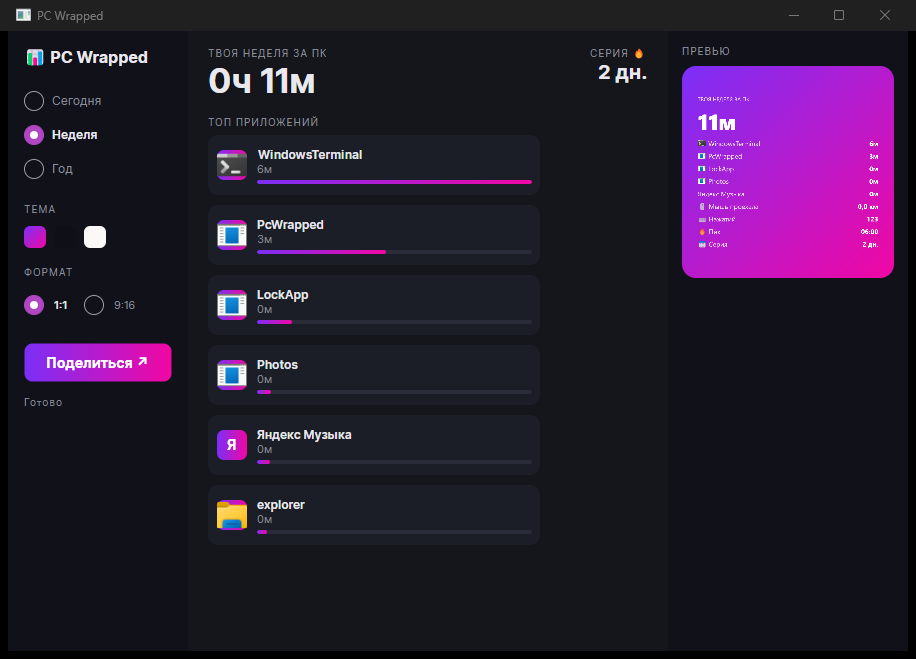
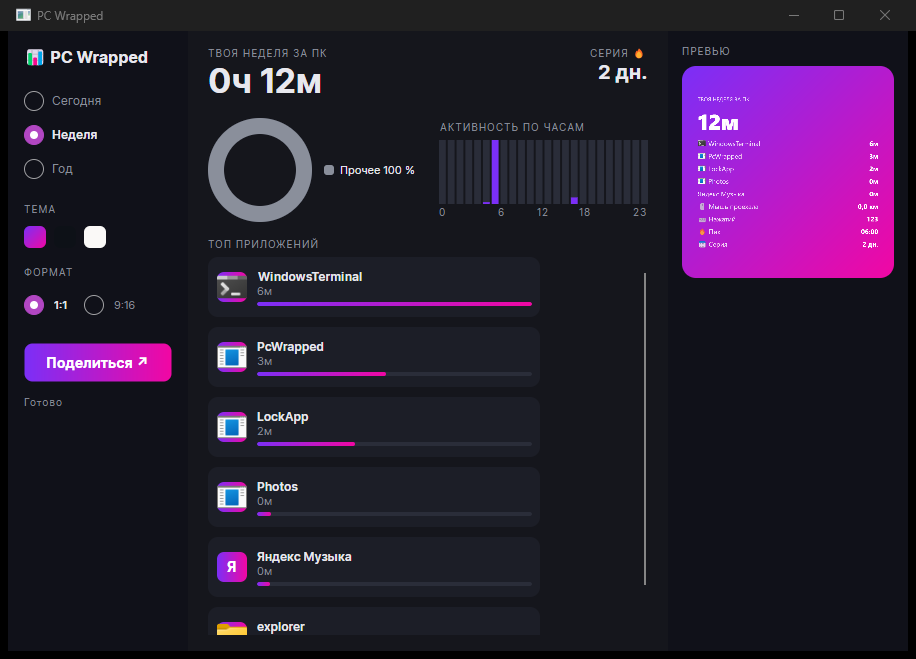
feat: add category donut and hourly bars to the shareable card

diff --git a/src/PcWrapped/Rendering/CardRenderer.cs b/src/PcWrapped/Rendering/CardRenderer.cs
@@ -1,10 +1,13 @@
 using System;
 using System.Collections.Generic;
+using System.Linq;
 using Avalonia;
 using Avalonia.Controls;
 using Avalonia.Layout;
 using Avalonia.Media;
 using Avalonia.Media.Imaging;
+using PcWrapped.Controls;
+using PcWrapped.Core.Aggregation;
 using PcWrapped.Core.Models;
 
 namespace PcWrapped.Rendering;
@@ -69,12 +72,59 @@ public static class CardRenderer
         int shown = 0;
         foreach (var app in stats.TopApps)
         {
-            if (shown >= 5) break;
+            if (shown >= 3) break;
             IImage? appIcon = null;
             appIcons?.TryGetValue(app.ProcessName, out appIcon);
             Row(app.ProcessName, FormatHours(app.Duration), appIcon);
             shown++;
         }
+        // ---- charts band (category donut + hourly bars), theme-shaded ----
+        var slices = ChartData.Segments(stats.ByCategory);
+        var shades = new[] { 1.0, 0.72, 0.5, 0.36, 0.25 };
+        Color Shade(int i) => WithOpacity(theme.TextColor, shades[Math.Min(i, shades.Length - 1)]);
+
+        if (slices.Count > 0)
+        {
+            var band = new StackPanel { Orientation = Orientation.Horizontal, Spacing = 28 };
+            band.Children.Add(new CategoryDonut
+            {
+                Width = 150, Height = 150, Thickness = 24,
+                EmptyBrush = new SolidColorBrush(WithOpacity(theme.TextColor, 0.15)),
+                Segments = slices.Select((s, i) => new DonutSegment(s.Fraction, Shade(i))).ToList(),
+            });
+            var legend = new StackPanel { VerticalAlignment = VerticalAlignment.Center, Spacing = 8 };
+            for (int i = 0; i < slices.Count && i < 3; i++)
+            {
+                var row = new StackPanel { Orientation = Orientation.Horizontal, Spacing = 12 };
+                row.Children.Add(new Border
+                {
+                    Width = 26, Height = 26, CornerRadius = new Avalonia.CornerRadius(6),
+                    Background = new SolidColorBrush(Shade(i)),
+                    VerticalAlignment = VerticalAlignment.Center,
+                });
+                row.Children.Add(new TextBlock
+                {
+                    Text = $"{CategoryPalette.Name(slices[i].Category)} {slices[i].Fraction:P0}",
+                    Foreground = new SolidColorBrush(theme.TextColor), FontFamily = theme.FontFamily,
+                    FontSize = 30, VerticalAlignment = VerticalAlignment.Center,
+                });
+                legend.Children.Add(row);
+            }
+            band.Children.Add(legend);
+            stack.Children.Add(band);
+        }
+
+        var hours = ChartData.NormalizeHours(stats.HourlySeconds);
+        if (hours.Count > 0)
+        {
+            stack.Children.Add(new HourlyBars
+            {
+                Height = 90, Values = hours,
+                Bar = new SolidColorBrush(theme.AccentColor),
+                Track = new SolidColorBrush(WithOpacity(theme.TextColor, 0.12)),
+            });
+        }
+
         Row("🖱️ Мышь проехала", $"{stats.MouseKilometers:0.0} км");
         Row("⌨️ Нажатий", $"{stats.Keystrokes:N0}");
         if (stats.PeakHour >= 0) Row("🔥 Пик", $"{stats.PeakHour:00}:00");
@@ -108,6 +158,9 @@ public static class CardRenderer
         using var bmp = RenderToBitmap(stats, theme, size, appIcons);
         bmp.Save(path);
     }
+
+    private static Color WithOpacity(Color c, double o) =>
+        new Color((byte)(o * 255), c.R, c.G, c.B);
 
     private static string FormatHours(TimeSpan t) =>
         t.TotalHours >= 1 ? $"{(int)t.TotalHours}ч {t.Minutes:00}м" : $"{t.Minutes}м";

diff --git a/tests/PcWrapped.App.Tests/CardRendererTests.cs b/tests/PcWrapped.App.Tests/CardRendererTests.cs
@@ -48,6 +48,37 @@ public class CardRendererTests
         }
     }
 
+    private static PeriodStats SampleWithCharts()
+    {
+        var hourly = new int[24];
+        hourly[10] = 40; hourly[14] = 90; hourly[22] = 60;
+        return new PeriodStats(
+            new DateOnly(2026, 6, 9), new DateOnly(2026, 6, 15),
+            TimeSpan.FromHours(37),
+            new[] { new AppUsage("code", TimeSpan.FromHours(14)), new AppUsage("chrome", TimeSpan.FromHours(8)) },
+            new Dictionary<Category, TimeSpan>
+            {
+                [Category.Work] = TimeSpan.FromHours(20),
+                [Category.Browser] = TimeSpan.FromHours(10),
+                [Category.Games] = TimeSpan.FromHours(7),
+            },
+            14, hourly, 5, 91204, 4200, 3.4);
+    }
+
+    [AvaloniaFact]
+    public void RenderToPng_WithCharts_ProducesValidPng()
+    {
+        var dir = Path.Combine(Path.GetTempPath(), "pcwrapped-test");
+        Directory.CreateDirectory(dir);
+        foreach (var theme in CardThemes.All)
+        {
+            var path = Path.Combine(dir, $"charts-{theme.Id}.png");
+            CardRenderer.RenderToPng(SampleWithCharts(), theme, CardRenderer.Square, path);
+            Assert.True(File.Exists(path));
+            Assert.True(new FileInfo(path).Length > 1000);
+        }
+    }
+
     [AvaloniaFact]
     public void RenderToPng_WithIcons_DoesNotThrow()
     {